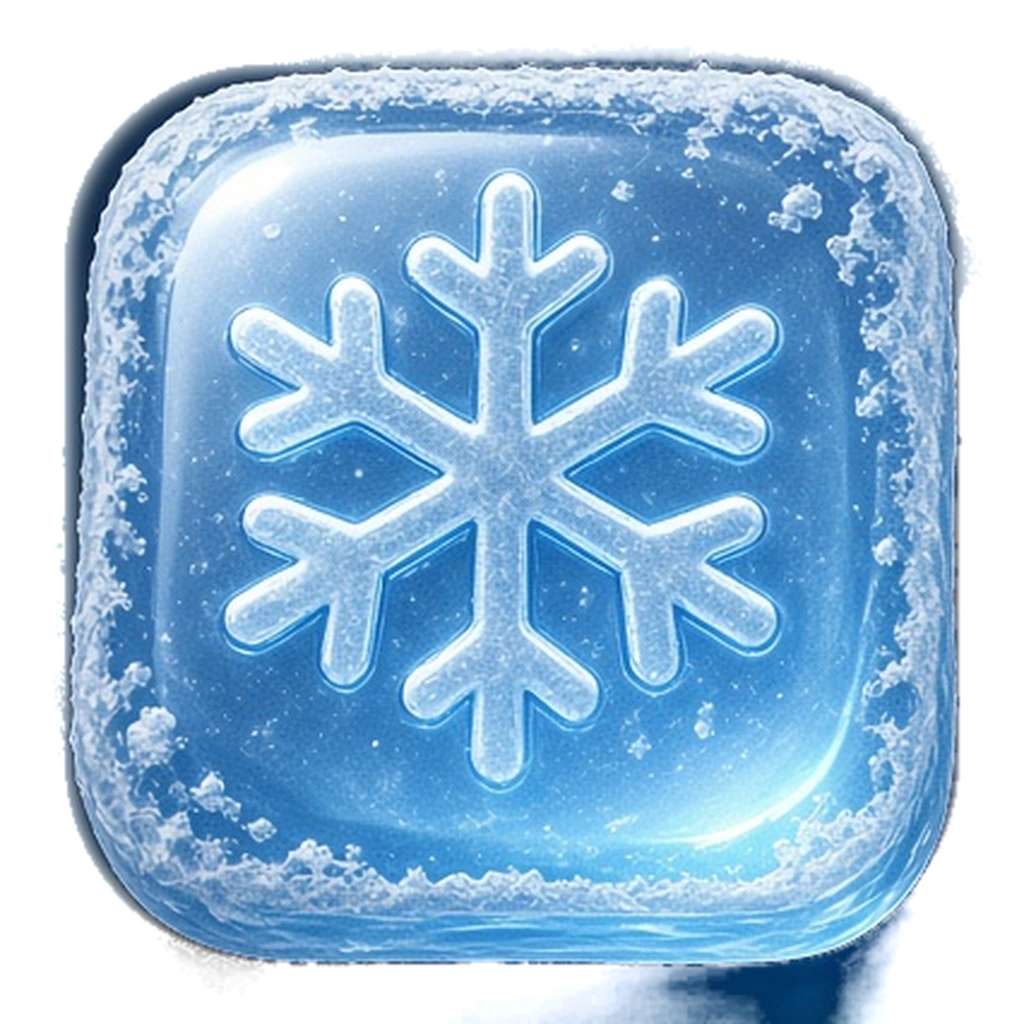
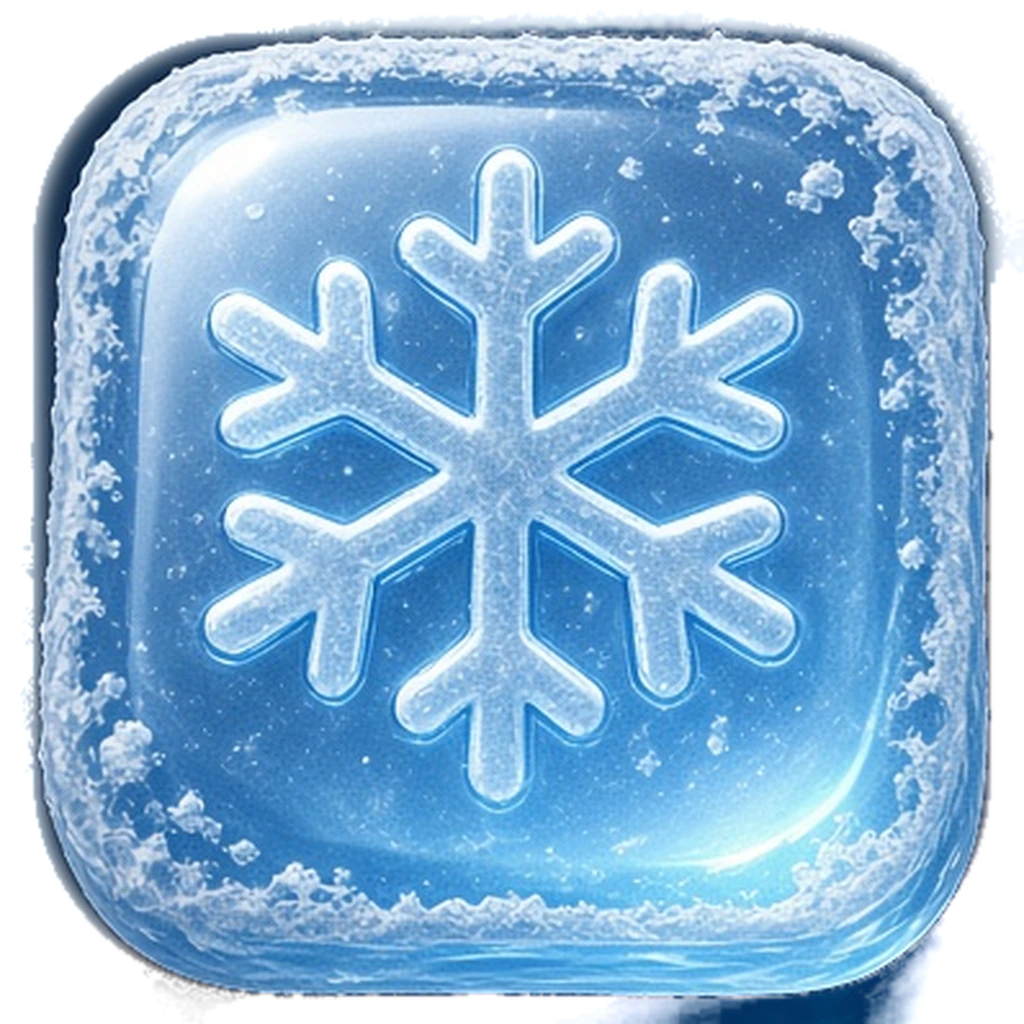
squish-art: Konzept-Texturen füllen die Oberseite besser
Weniger Rand in den WebP-Ausschnitten, etwas größeres Decal, tiefere
Auflage auf dem Gel. Vorschau-Skript für iPhone-Screenshots (390×844, 3×).

diff --git a/tools/special-art/extract.py b/tools/special-art/extract.py
@@ -17,7 +17,7 @@ BODIES = {
     "bound": (456, 170, 822, 536),
     "bomb": (858, 170, 1224, 536),
 }
-PAD = 28
+PAD = 14
 RADIUS_RATIO = 0.22
 SIZE = 1024
 
